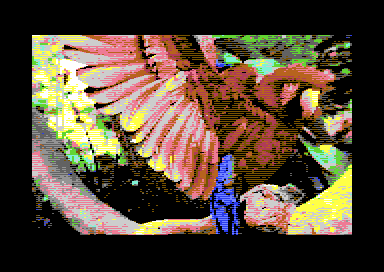
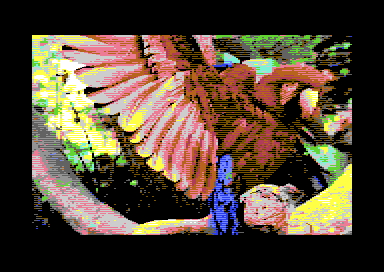
working proper mcinterlace bitmap

diff --git a/interlace.go b/interlace.go
@@ -56,7 +56,10 @@ func (c *converter) WriteInterlaceTo(w io.Writer) (n int64, err error) {
 	img1 := &c.images[1]
 
 	if len(img0.palette) != len(img1.palette) {
-		log.Printf("len(img0.palette): %d len(img1.palette): %d", len(img0.palette), len(img1.palette))
+		// sync both palettes
+		if c.opt.Verbose {
+			log.Printf("len(img0.palette): %d len(img1.palette): %d", len(img0.palette), len(img1.palette))
+		}
 		switch {
 		case len(img0.palette) < len(img1.palette):
 			for k, v := range img1.palette {
@@ -73,11 +76,11 @@ func (c *converter) WriteInterlaceTo(w io.Writer) (n int64, err error) {
 		}
 	}
 
-	k0, err := img0.Koala()
+	_, err = img0.Koala()
 	if err != nil {
 		return n, fmt.Errorf("img0.Koala failed: %w", err)
 	}
-	_, k1, sharedcolors, err := img1.InterlaceKoala(*img0)
+	k0, k1, sharedcolors, err := img1.InterlaceKoala(*img0)
 	if err != nil {
 		return n, fmt.Errorf("img1.InterlaceKoala failed: %w", err)
 	}
@@ -86,19 +89,18 @@ func (c *converter) WriteInterlaceTo(w io.Writer) (n int64, err error) {
 		k0.ScreenColor = k1.ScreenColor
 	}
 	if !sharedcolors {
-		_, k1, _, err = img0.InterlaceKoala(*img1)
-
-		for i := range k0.D800Color {
-			if k0.D800Color[i] != k1.D800Color[i] {
-				//fmt.Printf("%d k0: %d k1: %d\n", i, k0.D800Color[i], k1.D800Color[i])
-			}
-		}
-		//k0.D800Color = k1.D800Color
+		k0, k1, _, err = img0.InterlaceKoala(*img1)
 	}
 	sharedd800 := k0.D800Color == k1.D800Color
 	sharedscreen := k0.ScreenColor == k1.ScreenColor
 	if c.opt.Verbose {
-		log.Printf("sharedcolors: %v sharedd800: %v sharedscreen: %v", sharedcolors, sharedd800, sharedscreen)
+		log.Printf("sharedd800: %v sharedscreen: %v", sharedd800, sharedscreen)
+	}
+
+	for i := range k0.D800Color {
+		if k0.D800Color[i] != k1.D800Color[i] {
+			fmt.Printf("char %d k0.D800Color %d k1.D800Color %d\n", i, k0.D800Color[i], k1.D800Color[i])
+		}
 	}
 
 	bgBorder := k0.BackgroundColor | k0.BorderColor<<4
@@ -221,6 +223,8 @@ func (c *converter) WriteInterlaceTo(w io.Writer) (n int64, err error) {
 // InterlaceKoala returns the secondary Koala, with as many bitpairs/colors the same as the first image.
 // it also merges possibly missing colors into k.ScreenColor and k.D800Color, use those.
 func (img1 *sourceImage) InterlaceKoala(img0 sourceImage) (k0, k1 Koala, sharedcolors bool, err error) {
+	origPreferred0 := img0.preferredBitpairColors
+	origPreferred1 := img1.preferredBitpairColors
 	k0 = Koala{
 		BackgroundColor: img0.backgroundColor.ColorIndex,
 		BorderColor:     img0.borderColor.ColorIndex,
@@ -256,12 +260,14 @@ func (img1 *sourceImage) InterlaceKoala(img0 sourceImage) (k0, k1 Koala, sharedc
 			forcepreferred := bitpairColors{255, 255, 255, 255}
 		OUTER:
 			for _, col0 := range img0.charColors[char] {
+				if col0 == img1.backgroundColor.ColorIndex {
+					continue
+				}
 				for _, col1 := range img1.charColors[char] {
 					if col0 == col1 {
 						foundsharedcol++
 						foundsharedcolinchar = true
-						fmt.Printf("img0.charColors[%d]: %v img1.charColors[%d]: %v\n", char, img0.charColors[char], char, img1.charColors[char])
-
+						//fmt.Printf("img0.charColors[%d]: %v img1.charColors[%d]: %v\n", char, img0.charColors[char], char, img1.charColors[char])
 						if img1.preferredBitpairColors[3] < 16 {
 							forcepreferred = bitpairColors{img1.backgroundColor.ColorIndex, 255, 255, col0}
 						}
@@ -269,40 +275,53 @@ func (img1 *sourceImage) InterlaceKoala(img0 sourceImage) (k0, k1 Koala, sharedc
 					}
 				}
 			}
-			fmt.Printf("forcepreferred: %v\n", forcepreferred)
-			_ = forcepreferred
-
 			if !foundsharedcolinchar {
 				return k0, k1, sharedcolors, fmt.Errorf("multiColorIndexes failed: no shared color found in char %d", char)
 			}
 
+			img0.preferredBitpairColors = forcepreferred
+			img1.preferredBitpairColors = forcepreferred
+			rgb2bitpair0, bitpair2c64color0, err = img0.multiColorIndexes(sortColors(img0.charColors[char]), false)
+			if err != nil {
+				return k0, k1, sharedcolors, fmt.Errorf("img0.multiColorIndexes failed: error in char %d: %w", char, err)
+			}
 			rgb2bitpair1, bitpair2c64color1, err = img1.multiColorIndexes(sortColors(img1.charColors[char]), false)
 			if err != nil {
-				return k0, k1, sharedcolors, fmt.Errorf("multiColorIndexes failed: error in char %d: %w", char, err)
+				return k0, k1, sharedcolors, fmt.Errorf("img1.multiColorIndexes failed: error in char %d: %w", char, err)
 			}
-		}
-
-		for k, v := range rgb2bitpair1 {
-			if _, ok := rgb2bitpair0[k]; !ok {
-				rgb2bitpair0[k] = v
-				bitpair2c64color0[v] = bitpair2c64color1[v]
-			}
+			img1.preferredBitpairColors = origPreferred1
+			img0.preferredBitpairColors = origPreferred0
 		}
 
 		bitmapIndex := char * 8
 		x, y := xyFromChar(char)
 
 		for byteIndex := 0; byteIndex < 8; byteIndex++ {
-			bmpbyte := byte(0)
+			bmpbyte0 := byte(0)
+			bmpbyte1 := byte(0)
 			for pixel := 0; pixel < 8; pixel += 2 {
-				rgb := img1.colorAtXY(x+pixel, y+byteIndex)
-				if bmppattern, ok := rgb2bitpair1[rgb]; ok {
-					bmpbyte = bmpbyte | (bmppattern << (6 - byte(pixel)))
+				rgb0 := img0.colorAtXY(x+pixel, y+byteIndex)
+				if bmppattern, ok := rgb2bitpair0[rgb0]; ok {
+					bmpbyte0 = bmpbyte0 | (bmppattern << (6 - byte(pixel)))
+				}
+				rgb1 := img1.colorAtXY(x+pixel, y+byteIndex)
+				if bmppattern, ok := rgb2bitpair1[rgb1]; ok {
+					bmpbyte1 = bmpbyte1 | (bmppattern << (6 - byte(pixel)))
 				}
 			}
-			k1.Bitmap[bitmapIndex+byteIndex] = bmpbyte
+			k0.Bitmap[bitmapIndex+byteIndex] = bmpbyte0
+			k1.Bitmap[bitmapIndex+byteIndex] = bmpbyte1
 		}
 
+		if _, ok := bitpair2c64color0[1]; ok {
+			k0.ScreenColor[char] = bitpair2c64color0[1] << 4
+		}
+		if _, ok := bitpair2c64color0[2]; ok {
+			k0.ScreenColor[char] |= bitpair2c64color0[2]
+		}
+		if _, ok := bitpair2c64color0[3]; ok {
+			k0.D800Color[char] = bitpair2c64color0[3]
+		}
 		if _, ok := bitpair2c64color1[1]; ok {
 			k1.ScreenColor[char] = bitpair2c64color1[1] << 4
 		}
@@ -311,6 +330,14 @@ func (img1 *sourceImage) InterlaceKoala(img0 sourceImage) (k0, k1 Koala, sharedc
 		}
 		if _, ok := bitpair2c64color1[3]; ok {
 			k1.D800Color[char] = bitpair2c64color1[3]
+		}
+
+		// sync d800
+		if k0.D800Color[char] == k0.BackgroundColor {
+			k0.D800Color[char] = k1.D800Color[char]
+		}
+		if k1.D800Color[char] == k1.BackgroundColor {
+			k1.D800Color[char] = k0.D800Color[char]
 		}
 	}
 	if !sharedcolors && img1.opt.Verbose {

diff --git a/convert.go b/convert.go
@@ -46,7 +46,7 @@ func (img *sourceImage) multiColorIndexes(cc []ColorInfo, forcePreferred bool) (
 		}
 		// fill preferred
 		for preferBitpair, preferColor := range img.preferredBitpairColors {
-			if preferColor > 16 {
+			if preferColor > 15 {
 				continue
 			}
 			rgb2bitpair[img.palette.RGB(preferColor)] = byte(preferBitpair)
@@ -81,6 +81,7 @@ func (img *sourceImage) multiColorIndexes(cc []ColorInfo, forcePreferred bool) (
 	if false { // img.opt.Interlace {
 		// todo: fix proper sorting of colors above
 		// prefill d800 bitpair
+
 		if len(img.preferredBitpairColors) == 4 {
 			color := img.preferredBitpairColors[3]
 			var bitpair byte
@@ -93,7 +94,7 @@ func (img *sourceImage) multiColorIndexes(cc []ColorInfo, forcePreferred bool) (
 	// prefill preferred and used colors
 	if len(img.preferredBitpairColors) > 0 {
 		for preferBitpair, preferColor := range img.preferredBitpairColors {
-			if preferColor > 16 {
+			if preferColor > 15 {
 				continue
 			}
 		OUTER:

diff --git a/cmd/png2prg/main.go b/cmd/png2prg/main.go
@@ -88,6 +88,7 @@ func processAsOne(opt *png2prg.Options, filenames ...string) error {
 		if n > 0 {
 			return fmt.Errorf("WriteTo failed: %w", err)
 		}
+		return fmt.Errorf("WriteTo failed: %w", err)
 		log.Printf("WriteTo failed: %v", err)
 		log.Printf("attempting alternate x, y offset %d, %d", 32, 36)
 		opt.ForceXOffset, opt.ForceYOffset = 32, 36
